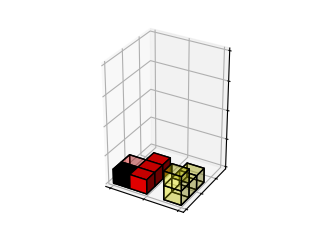
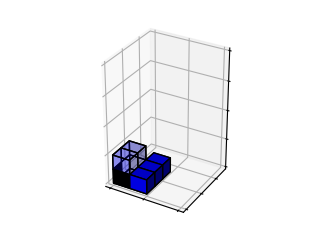
start removing hardcodes

Changed region(s): [[0.3438, 0.5833, 0.6562, 0.875]]

diff --git a/app.py b/app.py
@@ -16,10 +16,10 @@ def hello():
         check2 = True if request.form.get("check2") == 'on' else False
         check3 = True if request.form.get("check3") == 'on' else False
         check4 = True if request.form.get("check4") == 'on' else False
-        cphuman1 = request.form.get("cphuman1")
-        cphuman2 = request.form.get("cphuman2")
-        cphuman3 = request.form.get("cphuman3")
-        cphuman4 = request.form.get("cphuman4")
+        cphuman1 = 'cp' if request.form.get("cphuman1") == 'CP' else 'human'
+        cphuman2 = 'cp' if request.form.get("cphuman2") == 'CP' else 'human'
+        cphuman3 = 'cp' if request.form.get("cphuman3") == 'CP' else 'human'
+        cphuman4 = 'cp' if request.form.get("cphuman4") == 'CP' else 'human'
         color1 = request.form.get("color1")
         color2 = request.form.get("color2")
         color3 = request.form.get("color3")
@@ -34,8 +34,7 @@ def hello():
             color1, color2, color3, color4
         )
 
-        # Play first turn
-        players, grid = play_turn(session['turn'], players, grid)
+        # TODO: Draw blank board
 
         # Save game's data
         session['players'] = jsonpickle.encode(players)
@@ -47,17 +46,27 @@ def hello():
 @app.route('/nextturn', methods=['POST'])
 def nextTurn():
     data = request.get_json()  # retrieve the data sent from JavaScript
-    session['turn'] += 1
+    # session['turn'] += 1
     print(f"Turn: {session['turn']}")
 
     players = jsonpickle.decode(session['players'])
     grid = jsonpickle.decode(session['grid'])
-    players[str(2)].turn += 1  # TODO: hardcoded
-    players[str(2)].draw_pieces(grid, 0, 0, 0, 0, 0, 0)  # TODO: hardcoded
 
-    if (session['turn'] % 4) + 1 != 2:  # TODO: hardcoded
+    player_turn = (session['turn'] % len(players)) + 1
+    next_player_turn = ((session['turn'] + 1) % len(players)) + 1
+    print(f"Player {player_turn}'s turn, next turn: {next_player_turn} (# players: {len(players)})")
+
+    players[str(player_turn)].turn += 1  # TODO: hardcoded
+    players[str(next_player_turn)].draw_pieces(grid, players, 0, 0, 0, 0, 0, 0)  # TODO: hardcoded
+
+    # if (session['turn'] % len(players)) + 1 != 2:  # TODO: hardcoded
+    #     players, grid = play_turn(session['turn'], players, grid)
+    # else:
+    #     players, grid = human_move(players, grid, data['piece'])
+
+    if players[str(player_turn)].owner == 'cp':  # TODO: hardcoded
         players, grid = play_turn(session['turn'], players, grid)
-    else:
+    elif players[str(player_turn)].owner == 'human':
         players, grid = human_move(players, grid, data['piece'])
 
     # Reset profile places for each player
@@ -67,6 +76,7 @@ def nextTurn():
     # Save game's data
     session['players'] = jsonpickle.encode(players)
     session['grid'] = jsonpickle.encode(grid)
+    session['turn'] += 1
 
     return jsonify({'turn': session['turn']})  # return the result to JavaScript
 
@@ -77,37 +87,38 @@ def move_piece():
     data = request.get_json()
     players = jsonpickle.decode(session['players'])
     grid = jsonpickle.decode(session['grid'])
+    player_turn = str((session['turn'] % len(players)) + 1)
     move = data['move']
 
     player = players[str(2)]  # TODO: hardcoded
     current_x, current_y, current_z, rot_x, rot_y, rot_z = player.piece_profile_positions
     if move == 'right':
         player.piece_profile_positions = (current_x + 1, current_y, current_z, rot_x, rot_y, rot_z)
-        players[str(2)].draw_pieces(grid, current_x + 1, current_y, current_z, rot_x, rot_y, rot_z)  # TODO: hardcoded
+        players[player_turn].draw_pieces(grid, players, current_x + 1, current_y, current_z, rot_x, rot_y, rot_z)  # TODO: hardcoded
     elif move == 'left':
         player.piece_profile_positions = (current_x - 1, current_y, current_z, rot_x, rot_y, rot_z)
-        players[str(2)].draw_pieces(grid, current_x - 1, current_y, current_z, rot_x, rot_y, rot_z)  # TODO: hardcoded
+        players[player_turn].draw_pieces(grid, players, current_x - 1, current_y, current_z, rot_x, rot_y, rot_z)  # TODO: hardcoded
     elif move == 'away':
         player.piece_profile_positions = (current_x, current_y + 1, current_z, rot_x, rot_y, rot_z)
-        players[str(2)].draw_pieces(grid, current_x, current_y + 1, current_z, rot_x, rot_y, rot_z)  # TODO: hardcoded
+        players[player_turn].draw_pieces(grid, players, current_x, current_y + 1, current_z, rot_x, rot_y, rot_z)  # TODO: hardcoded
     elif move == 'towards':
         player.piece_profile_positions = (current_x, current_y - 1, current_z, rot_x, rot_y, rot_z)
-        players[str(2)].draw_pieces(grid, current_x, current_y - 1, current_z, rot_x, rot_y, rot_z)  # TODO: hardcoded
+        players[player_turn].draw_pieces(grid, players, current_x, current_y - 1, current_z, rot_x, rot_y, rot_z)  # TODO: hardcoded
     elif move == 'up':
         player.piece_profile_positions = (current_x, current_y, current_z + 1, rot_x, rot_y, rot_z)
-        players[str(2)].draw_pieces(grid, current_x, current_y, current_z + 1, rot_x, rot_y, rot_z)  # TODO: hardcoded
+        players[player_turn].draw_pieces(grid, players, current_x, current_y, current_z + 1, rot_x, rot_y, rot_z)  # TODO: hardcoded
     elif move == 'down':
         player.piece_profile_positions = (current_x, current_y, current_z - 1, rot_x, rot_y, rot_z)
-        players[str(2)].draw_pieces(grid, current_x, current_y, current_z - 1, rot_x, rot_y, rot_z)  # TODO: hardcoded
+        players[player_turn].draw_pieces(grid, players, current_x, current_y, current_z - 1, rot_x, rot_y, rot_z)  # TODO: hardcoded
     elif move == 'x':
         player.piece_profile_positions = (current_x, current_y, current_z, rot_x, rot_y, rot_z + 1)
-        players[str(2)].draw_pieces(grid, current_x, current_y, current_z, rot_x, rot_y, rot_z + 1)  # TODO: hardcoded
+        players[player_turn].draw_pieces(grid, players, current_x, current_y, current_z, rot_x, rot_y, rot_z + 1)  # TODO: hardcoded
     elif move == 'y':
         player.piece_profile_positions = (current_x, current_y, current_z, rot_x + 1, rot_y, rot_z)
-        players[str(2)].draw_pieces(grid, current_x, current_y, current_z, rot_x + 1, rot_y, rot_z)  # TODO: hardcoded
+        players[player_turn].draw_pieces(grid, players, current_x, current_y, current_z, rot_x + 1, rot_y, rot_z)  # TODO: hardcoded
     elif move == 'z':
         player.piece_profile_positions = (current_x, current_y, current_z, rot_x, rot_y + 1, rot_z)
-        players[str(2)].draw_pieces(grid, current_x, current_y, current_z, rot_x, rot_y + 1, rot_z)  # TODO: hardcoded
+        players[player_turn].draw_pieces(grid, players, current_x, current_y, current_z, rot_x, rot_y + 1, rot_z)  # TODO: hardcoded
 
     session['players'] = jsonpickle.encode(players)
 
@@ -116,11 +127,10 @@ def move_piece():
 
 @app.route('/reset', methods=['POST'])
 def reset():
-    data = request.get_json()  # TODO: unnecessary
     players = jsonpickle.decode(session['players'])
     grid = jsonpickle.decode(session['grid'])
     players[str(2)].piece_profile_positions = (0, 0, 0, 0, 0, 0)  # TODO: hardcoded
-    players[str(2)].draw_pieces(grid, 0, 0, 0, 0, 0, 0)  # TODO: hardcoded
+    players[str(2)].draw_pieces(grid, players, 0, 0, 0, 0, 0, 0)  # TODO: hardcoded
     session['players'] = jsonpickle.encode(players)
     return jsonify('abc')  # TODO: useless
 

diff --git a/modules/functions.py b/modules/functions.py
@@ -34,25 +34,28 @@ class Competitor:
         self.piece_profile_positions = (0, 0, 0, 0, 0, 0)
         self.turn = 0
 
-    def draw_pieces(self, grid, x=0, y=0, z=0, k1=0, k2=0, k3=0):
+    def draw_pieces(self, grid, players, x=0, y=0, z=0, k1=0, k2=0, k3=0):
         for piece, piece_name in zip(self.piece_list, self.piece_names_list):
-            empty_grid = board('chullpa')  # TODO: hardcoded
+            empty_grid = board(grid.board_name)
             piece = np.rot90(np.rot90(np.rot90(piece, k=k1, axes=(0, 1)), k=k2, axes=(1, 2)), k=k3, axes=(0, 2))
             # If a voxel can't be made then give up on that piece
             try:
                 layer = fill_out2(piece, empty_grid.grid, x, y, z)
                 # Perform legality checks
                 if ((grid.grid * layer).max() != 0) or ((grid.grid * layer).min() != 0):
-                    print('piece in the way')
+                    pass
+                    # print('piece in the way')
                     # raise ValueError
                 if self.turn > 1:
                     adjacent, adjacent_bool = check_adjacent(grid.grid, layer, 2)  # TODO: hardcoded
                     if adjacent_bool is False:
-                        print('adjacent_bool = False')
+                        pass
+                        # print('adjacent_bool = False')
                         # raise ValueError
                 nothanging_bool = check_nothanging(grid.grid, layer, 2)  # TODO: hardcoded
                 if nothanging_bool is False:
-                    print('nothanging_bool = False')
+                    pass
+                    # print('nothanging_bool = False')
                     # raise ValueError
 
                 # Replace overlapping pieces with 5
@@ -65,6 +68,15 @@ class Competitor:
                 piece_grid = np.rot90(np.rot90(piece_grid, k=1, axes=(0, 2)), k=3, axes=(0, 1))
 
                 # Create color DataFrame
+                color_rgb_map = {
+                    'red': [1, 0, 0],
+                    'yellow': [1, 1, 0],
+                    'green': [0, 1, 0],
+                    'blue': [0, 0, 1]
+                }
+
+                piece_grid = np.where(piece_grid == -1, 0, piece_grid)
+
                 color = []
                 for i, level in enumerate(piece_grid):
                     for j, row in enumerate(level):
@@ -76,13 +88,13 @@ class Competitor:
                             if val == 0:
                                 color.append('none')
                             elif val == 1:
-                                color.append([1, 1, 0, 0.25])
+                                color.append(color_rgb_map[players['1'].color] + [opacity])
                             elif val == 2:
-                                color.append([1, 0, 0, opacity])  # TODO: hardcoded
+                                color.append(color_rgb_map[players['2'].color] + [opacity])
                             elif val == 3:
-                                color.append([0, 0, 1, 0.25])
+                                color.append(color_rgb_map[players['3'].color] + [opacity])
                             elif val == 4:
-                                color.append([0, 1, 0, 0.25])
+                                color.append(color_rgb_map[players['4'].color] + [opacity])
                             elif val == 5:
                                 color.append([0, 0, 0])
                 df = pd.DataFrame({'color': color})
@@ -97,6 +109,7 @@ class Competitor:
                 ax.figure.savefig(f'static//{piece_name}.png', format='png')
                 plt.clf()
                 plt.close()
+            # Catch when a piece has moved off the board
             except ValueError:
                 source_path = 'static//invalid_move.png'
                 destination_path = f'static//{piece_name}.png'
@@ -106,13 +119,16 @@ class Competitor:
 class board:
     def __init__(self, board):
         if board.lower() == 'chullpa':
+            self.board_name = 'chullpa'
             self.grid = np.zeros((8, 4, 5))
             self.aspect_ratio = [1, 1, 1.55]
         elif board.lower() == 'pirka':
+            self.board_name = 'pirka'
             self.grid = np.zeros((4, 8, 6))
             self.grid[:, 3:, :3] = -1
             self.aspect_ratio = [1, 1.7, 0.7]
         elif board.lower() == 'coricancha':
+            self.board_name = 'coricancha'
             self.grid = np.zeros((4, 8, 8))
             self.grid[1:, 0, :] = -1
             self.grid[1:, 7, :] = -1
@@ -128,6 +144,7 @@ class board:
             self.grid[3:, 2:6, 5] = -1
             self.aspect_ratio = [1, 1.3, 0.5]
         elif board.lower() == 'pisac':
+            self.board_name = 'pisac'
             self.grid = np.zeros((8, 8, 8))
             self.grid[:, 0:6, 0] = -1
             self.grid[:, 0:6, 7] = -1
@@ -144,6 +161,7 @@ class board:
             self.grid[7:, 1, :] = -1
             self.aspect_ratio = [1, 1.3, 1]
         elif board.lower() == 'cucho':
+            self.board_name = 'cucho'
             self.grid = np.zeros((5, 8, 8))
             self.grid[:, 0:4, 0:4] = -1
             self.grid[1:, 0, 4:] = -1
@@ -156,6 +174,7 @@ class board:
             self.grid[4:, 4:, 3] = -1
             self.aspect_ratio = [1, 1.35, 0.7]
         elif board.lower() == 'tambo':
+            self.board_name = 'tambo'
             self.grid = np.zeros((4, 7, 7))
             self.grid[:, :2, 5:] = -1
             self.grid[:, 5:, :2] = -1
@@ -163,9 +182,11 @@ class board:
             self.aspect_ratio = [1, 1.35, 0.55]
 
     def draw_board(self, title_string, players, rotation=3):
+        # Rotate grid for graphing software, replace illegal positions with 0 to avoid errors
         grid_t = np.rot90(np.rot90(self.grid, k=1, axes=(0, 2)), k=rotation, axes=(0, 1))
         grid_t = np.where(grid_t == -1, 0, grid_t)
 
+        # Loop through each square to record it's color for the graph
         color = []
         for i, layer in enumerate(grid_t):
             for j, row in enumerate(layer):
@@ -173,13 +194,13 @@ class board:
                     if val == 0:
                         color.append('none')
                     elif val == 1:
-                        color.append('yellow')
+                        color.append(players['1'].color)
                     elif val == 2:
-                        color.append('red')
+                        color.append(players['2'].color)
                     elif val == 3:
-                        color.append('blue')
+                        color.append(players['3'].color)
                     elif val == 4:
-                        color.append('green')
+                        color.append(players['4'].color)
         df = pd.DataFrame({'color': color})
 
         ax = plt.figure().add_subplot(projection='3d')
@@ -431,7 +452,7 @@ def start_game(
     grid = board(board_name)
 
     # Draw first humans pieces
-    p2.draw_pieces(grid)  # TODO: hardcoded
+    p2.draw_pieces(grid, players)  # TODO: hardcoded
 
     return players, grid
 
